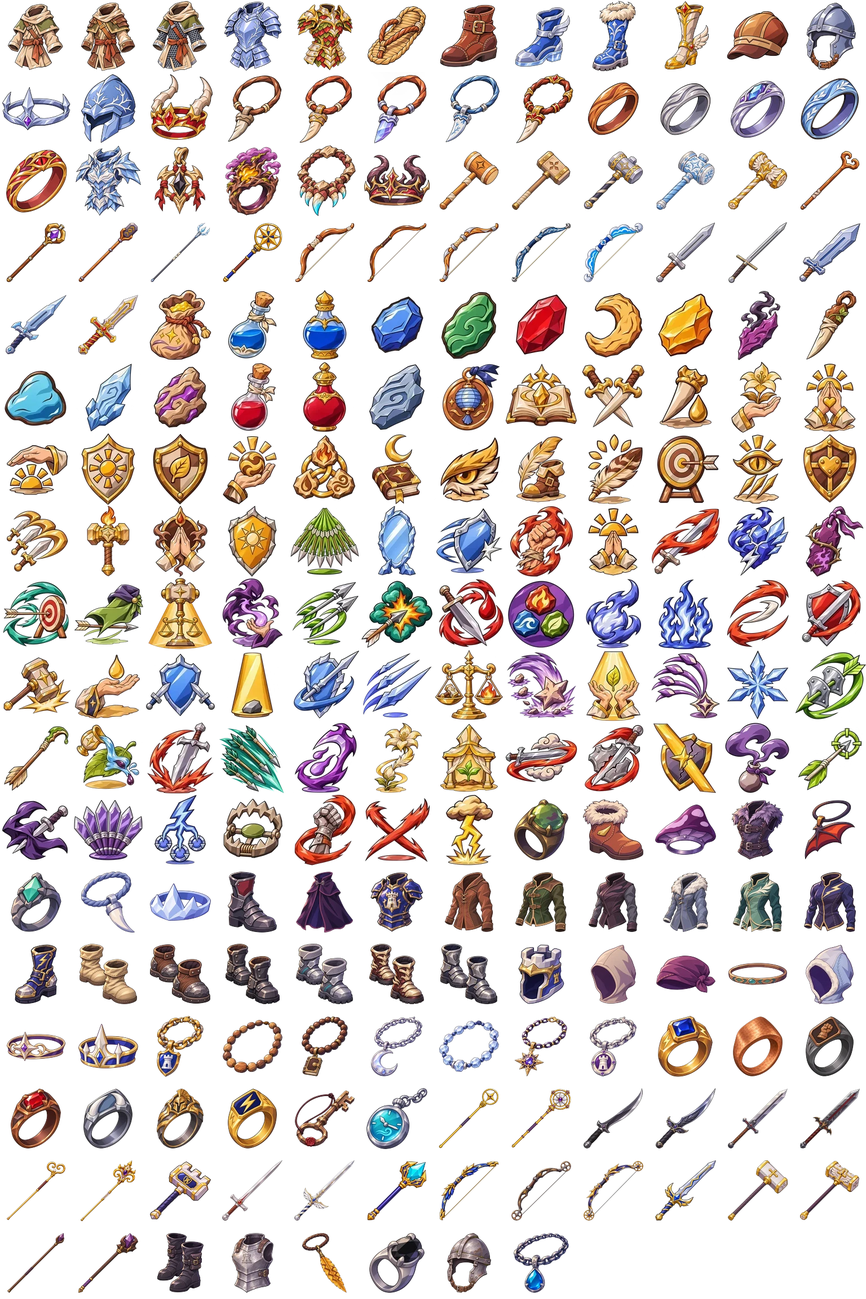
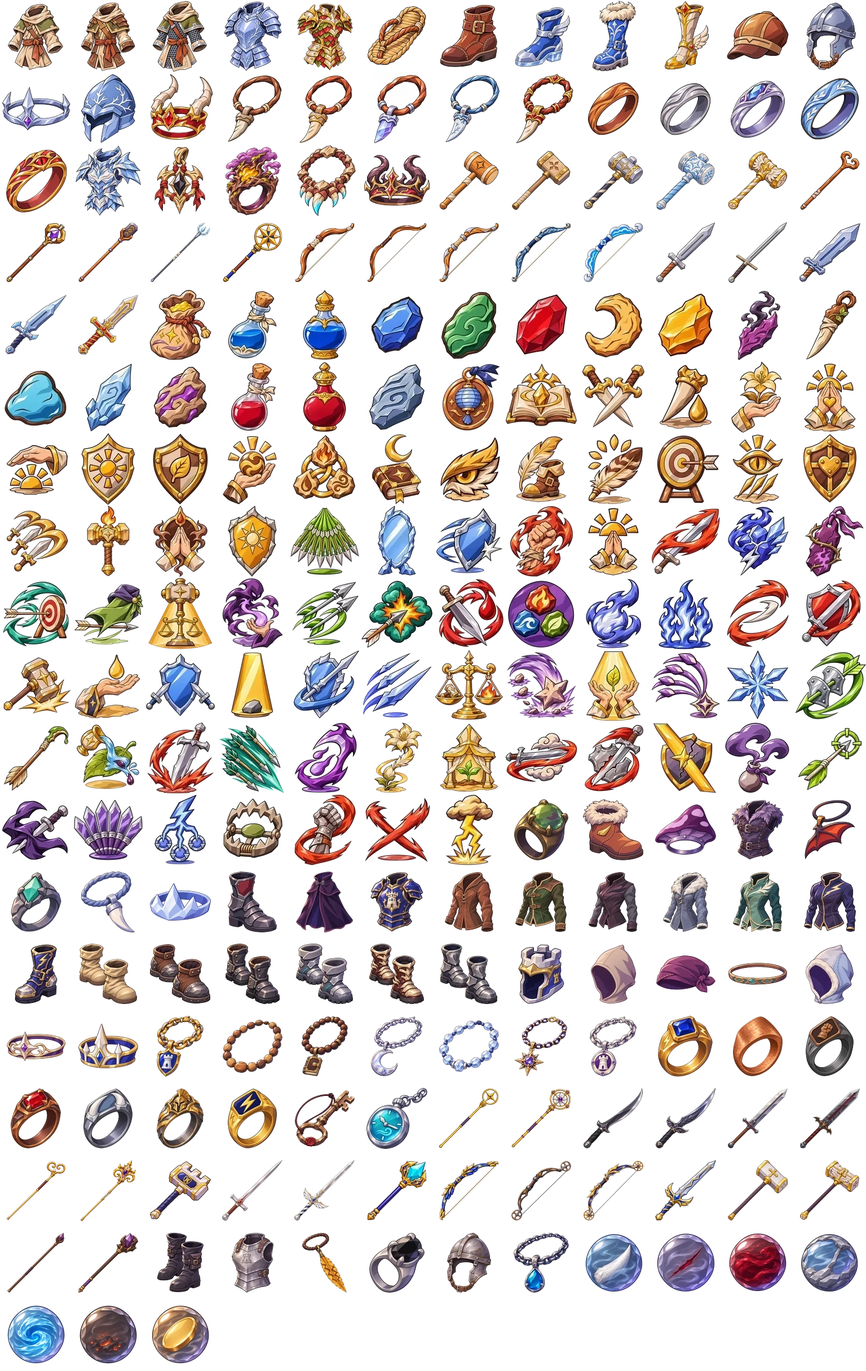
霧核圖示上線、新增淬鍊霧核（v11.8）；更新排行榜網址
Claude-Session: https://claude.ai/code/session_014oWtzFQQyW4AqkzicUGrLy

diff --git a/index.html b/index.html
@@ -335,8 +335,8 @@ body.pc #app{margin:0;flex:none;box-shadow:0 0 40px rgba(0,0,0,.45)}
 .duo .art{border:none;background:none}
 #pfx{position:absolute;inset:0;width:100%;height:100%;pointer-events:none;z-index:15}
 .art.shadowimg{transform:scaleX(-1)}.stage .spr.foe .art.shadowimg img,.art.shadowimg img{filter:brightness(.22) saturate(0) drop-shadow(0 0 10px #9a7aff)}
-.ico{position:relative;overflow:hidden}.ico i.at{position:absolute;inset:0;background:#fff url(art/atlas_ui.webp) no-repeat;background-size:1200% 1800%}.art i.sht{position:absolute;inset:0;background-repeat:no-repeat;background-size:400% 300%}.ico img.ii{position:absolute;inset:0;width:100%;height:100%;object-fit:contain;background:#fff}
-.cmd .btn .bi{width:26px;height:26px;object-fit:contain;vertical-align:middle;margin-right:4px}i.bi.at{display:inline-block;background:url(art/atlas_ui.webp) no-repeat;background-size:1200% 1800%}
+.ico{position:relative;overflow:hidden}.ico i.at{position:absolute;inset:0;background:#fff url(art/atlas_ui.webp) no-repeat;background-size:1200% 1900%}.art i.sht{position:absolute;inset:0;background-repeat:no-repeat;background-size:400% 300%}.ico img.ii{position:absolute;inset:0;width:100%;height:100%;object-fit:contain;background:#fff}
+.cmd .btn .bi{width:26px;height:26px;object-fit:contain;vertical-align:middle;margin-right:4px}i.bi.at{display:inline-block;background:url(art/atlas_ui.webp) no-repeat;background-size:1200% 1900%}
 @media (prefers-reduced-motion:reduce){*{animation:none!important;transition:none!important}}
 /* 隊友與多隻魔物 */
 .ally{position:absolute;left:0%;top:35%;width:23%;z-index:1;filter:drop-shadow(0 3px 2px rgba(0,0,0,.25))}.ally .art{border-radius:10px}
@@ -436,7 +436,7 @@ const PRE={};function preload(ks){ks.forEach(k=>{if(k&&!shKey(k)&&!(k in ATL)&&!
 window.reTry=(img,key)=>{const n=+(img.dataset.r||0);if(n>=3||!navigator.onLine&&n>=1)return false;img.dataset.r=n+1;setTimeout(()=>{if(img.isConnected)img.src='art/'+key+'.webp?r='+Date.now()},[600,1500,3500][n]);return true};
 const ASZ={r169:'1280×720',r34:'768×1024',r11:'768×768'};
 /* 插畫位：把圖檔放到 art/<key>.png 就會自動取代預留框 */
-const ATL={"icon_a_0":0,"icon_a_1":1,"icon_a_2":2,"icon_a_3":3,"icon_a_4":4,"icon_f_0":5,"icon_f_1":6,"icon_f_2":7,"icon_f_3":8,"icon_f_4":9,"icon_h_0":10,"icon_h_1":11,"icon_h_2":12,"icon_h_3":13,"icon_h_4":14,"icon_n_0":15,"icon_n_1":16,"icon_n_2":17,"icon_n_3":18,"icon_n_4":19,"icon_r_0":20,"icon_r_1":21,"icon_r_2":22,"icon_r_3":23,"icon_r_4":24,"icon_u_dragon":25,"icon_u_gob":26,"icon_u_tree":27,"icon_u_worm":28,"icon_u_zenos":29,"icon_w_cleric_0":30,"icon_w_cleric_1":31,"icon_w_cleric_2":32,"icon_w_cleric_3":33,"icon_w_cleric_4":34,"icon_w_mage_0":35,"icon_w_mage_1":36,"icon_w_mage_2":37,"icon_w_mage_3":38,"icon_w_mage_4":39,"icon_w_ranger_0":40,"icon_w_ranger_1":41,"icon_w_ranger_2":42,"icon_w_ranger_3":43,"icon_w_ranger_4":44,"icon_w_swordsman_0":45,"icon_w_swordsman_1":46,"icon_w_swordsman_2":47,"icon_w_swordsman_3":48,"icon_w_swordsman_4":49,"item_dust":50,"item_eth":51,"item_eth2":52,"item_gem_b":53,"item_gem_g":54,"item_gem_r":55,"item_gem_w":56,"item_gem_y":57,"item_m_dark":58,"item_m_fang":59,"item_m_gel":60,"item_m_ice":61,"item_m_ore":62,"item_pot":63,"item_pot2":64,"item_stone":65,"item_tok":66,"pass_am":67,"pass_as":68,"pass_bk":69,"pass_bp":70,"pass_cl1":71,"pass_cl2":72,"pass_cl3":73,"pass_kn":74,"pass_mg1":75,"pass_mg2":76,"pass_mg3":77,"pass_rg1":78,"pass_rg2":79,"pass_rg3":80,"pass_sn":81,"pass_sw1":82,"pass_sw2":83,"pass_sw3":84,"pass_tp":85,"pass_wl":86,"skill_aegis":87,"skill_arrowstorm":88,"skill_barrier":89,"skill_bash":90,"skill_berserk":91,"skill_bless":92,"skill_charge":93,"skill_collapse":94,"skill_curse":95,"skill_deadshot":96,"skill_dodge":97,"skill_doom":98,"skill_drain":99,"skill_dshot":100,"skill_explo":101,"skill_feast":102,"skill_field":103,"skill_fire":104,"skill_firestorm":105,"skill_flurry":106,"skill_guard":107,"skill_hammer":108,"skill_heal":109,"skill_hold":110,"skill_holy":111,"skill_holycharge":112,"skill_ice":113,"skill_judge":114,"skill_meteor":115,"skill_miracle":116,"skill_missiles":117,"skill_nova":118,"skill_pierce":119,"skill_pshot":120,"skill_purify":121,"skill_rage":122,"skill_rain":123,"skill_reap":124,"skill_revive":125,"skill_sanct":126,"skill_skyslash":127,"skill_slash":128,"skill_smite":129,"skill_smoke":130,"skill_snipe":131,"skill_stab":132,"skill_thousand":133,"skill_thunder":134,"skill_trap":135,"skill_warcry":136,"skill_whirl":137,"skill_wrath":138,"icon_x_bog":139,"icon_x_spark":140,"icon_x_soul":141,"icon_x_shade":142,"icon_x_lava":143,"icon_x_crystal":144,"icon_x_blizzard":145,"icon_x_storm":146,"icon_x_blood":147,"icon_x_void":148,"icon_a_5":149,"icon_ab_0":150,"icon_ab_1":151,"icon_ab_2":152,"icon_ab_3":153,"icon_ab_4":154,"icon_ab_5":155,"icon_f_5":156,"icon_fb_0":157,"icon_fb_1":158,"icon_fb_2":159,"icon_fb_3":160,"icon_fb_4":161,"icon_fb_5":162,"icon_h_5":163,"icon_hb_0":164,"icon_hb_1":165,"icon_hb_2":166,"icon_hb_3":167,"icon_hb_4":168,"icon_hb_5":169,"icon_n_5":170,"icon_nb_0":171,"icon_nb_1":172,"icon_nb_2":173,"icon_nb_3":174,"icon_nb_4":175,"icon_nb_5":176,"icon_r_5":177,"icon_rb_0":178,"icon_rb_1":179,"icon_rb_2":180,"icon_rb_3":181,"icon_rb_4":182,"icon_rb_5":183,"icon_u_archive":184,"icon_u_storm":185,"icon_w_archmage_4":186,"icon_w_archmage_5":187,"icon_w_assassin_4":188,"icon_w_assassin_5":189,"icon_w_berserker_4":190,"icon_w_berserker_5":191,"icon_w_bishop_4":192,"icon_w_bishop_5":193,"icon_w_cleric_5":194,"icon_w_knight_4":195,"icon_w_knight_5":196,"icon_w_mage_5":197,"icon_w_ranger_5":198,"icon_w_sniper_4":199,"icon_w_sniper_5":200,"icon_w_swordsman_5":201,"icon_w_templar_4":202,"icon_w_templar_5":203,"icon_w_warlock_4":204,"icon_w_warlock_5":205,"icon_x_bandit":206,"icon_x_deserter":207,"icon_x_hawk":208,"icon_x_ink":209,"icon_x_rust":210,"icon_x_tide":211},ATC=12,ATR=18;
+const ATL={"icon_a_0":0,"icon_a_1":1,"icon_a_2":2,"icon_a_3":3,"icon_a_4":4,"icon_f_0":5,"icon_f_1":6,"icon_f_2":7,"icon_f_3":8,"icon_f_4":9,"icon_h_0":10,"icon_h_1":11,"icon_h_2":12,"icon_h_3":13,"icon_h_4":14,"icon_n_0":15,"icon_n_1":16,"icon_n_2":17,"icon_n_3":18,"icon_n_4":19,"icon_r_0":20,"icon_r_1":21,"icon_r_2":22,"icon_r_3":23,"icon_r_4":24,"icon_u_dragon":25,"icon_u_gob":26,"icon_u_tree":27,"icon_u_worm":28,"icon_u_zenos":29,"icon_w_cleric_0":30,"icon_w_cleric_1":31,"icon_w_cleric_2":32,"icon_w_cleric_3":33,"icon_w_cleric_4":34,"icon_w_mage_0":35,"icon_w_mage_1":36,"icon_w_mage_2":37,"icon_w_mage_3":38,"icon_w_mage_4":39,"icon_w_ranger_0":40,"icon_w_ranger_1":41,"icon_w_ranger_2":42,"icon_w_ranger_3":43,"icon_w_ranger_4":44,"icon_w_swordsman_0":45,"icon_w_swordsman_1":46,"icon_w_swordsman_2":47,"icon_w_swordsman_3":48,"icon_w_swordsman_4":49,"item_dust":50,"item_eth":51,"item_eth2":52,"item_gem_b":53,"item_gem_g":54,"item_gem_r":55,"item_gem_w":56,"item_gem_y":57,"item_m_dark":58,"item_m_fang":59,"item_m_gel":60,"item_m_ice":61,"item_m_ore":62,"item_pot":63,"item_pot2":64,"item_stone":65,"item_tok":66,"pass_am":67,"pass_as":68,"pass_bk":69,"pass_bp":70,"pass_cl1":71,"pass_cl2":72,"pass_cl3":73,"pass_kn":74,"pass_mg1":75,"pass_mg2":76,"pass_mg3":77,"pass_rg1":78,"pass_rg2":79,"pass_rg3":80,"pass_sn":81,"pass_sw1":82,"pass_sw2":83,"pass_sw3":84,"pass_tp":85,"pass_wl":86,"skill_aegis":87,"skill_arrowstorm":88,"skill_barrier":89,"skill_bash":90,"skill_berserk":91,"skill_bless":92,"skill_charge":93,"skill_collapse":94,"skill_curse":95,"skill_deadshot":96,"skill_dodge":97,"skill_doom":98,"skill_drain":99,"skill_dshot":100,"skill_explo":101,"skill_feast":102,"skill_field":103,"skill_fire":104,"skill_firestorm":105,"skill_flurry":106,"skill_guard":107,"skill_hammer":108,"skill_heal":109,"skill_hold":110,"skill_holy":111,"skill_holycharge":112,"skill_ice":113,"skill_judge":114,"skill_meteor":115,"skill_miracle":116,"skill_missiles":117,"skill_nova":118,"skill_pierce":119,"skill_pshot":120,"skill_purify":121,"skill_rage":122,"skill_rain":123,"skill_reap":124,"skill_revive":125,"skill_sanct":126,"skill_skyslash":127,"skill_slash":128,"skill_smite":129,"skill_smoke":130,"skill_snipe":131,"skill_stab":132,"skill_thousand":133,"skill_thunder":134,"skill_trap":135,"skill_warcry":136,"skill_whirl":137,"skill_wrath":138,"icon_x_bog":139,"icon_x_spark":140,"icon_x_soul":141,"icon_x_shade":142,"icon_x_lava":143,"icon_x_crystal":144,"icon_x_blizzard":145,"icon_x_storm":146,"icon_x_blood":147,"icon_x_void":148,"icon_a_5":149,"icon_ab_0":150,"icon_ab_1":151,"icon_ab_2":152,"icon_ab_3":153,"icon_ab_4":154,"icon_ab_5":155,"icon_f_5":156,"icon_fb_0":157,"icon_fb_1":158,"icon_fb_2":159,"icon_fb_3":160,"icon_fb_4":161,"icon_fb_5":162,"icon_h_5":163,"icon_hb_0":164,"icon_hb_1":165,"icon_hb_2":166,"icon_hb_3":167,"icon_hb_4":168,"icon_hb_5":169,"icon_n_5":170,"icon_nb_0":171,"icon_nb_1":172,"icon_nb_2":173,"icon_nb_3":174,"icon_nb_4":175,"icon_nb_5":176,"icon_r_5":177,"icon_rb_0":178,"icon_rb_1":179,"icon_rb_2":180,"icon_rb_3":181,"icon_rb_4":182,"icon_rb_5":183,"icon_u_archive":184,"icon_u_storm":185,"icon_w_archmage_4":186,"icon_w_archmage_5":187,"icon_w_assassin_4":188,"icon_w_assassin_5":189,"icon_w_berserker_4":190,"icon_w_berserker_5":191,"icon_w_bishop_4":192,"icon_w_bishop_5":193,"icon_w_cleric_5":194,"icon_w_knight_4":195,"icon_w_knight_5":196,"icon_w_mage_5":197,"icon_w_ranger_5":198,"icon_w_sniper_4":199,"icon_w_sniper_5":200,"icon_w_swordsman_5":201,"icon_w_templar_4":202,"icon_w_templar_5":203,"icon_w_warlock_4":204,"icon_w_warlock_5":205,"icon_x_bandit":206,"icon_x_deserter":207,"icon_x_hawk":208,"icon_x_ink":209,"icon_x_rust":210,"icon_x_tide":211,"icon_core_fang":212,"icon_core_exec":213,"icon_core_blood":214,"icon_core_wall":215,"icon_core_flow":216,"icon_core_ember":217,"icon_core_greed":218},ATC=12,ATR=19;
 const SHO=['','mage','ranger','cleric','knight','berserker','archmage','warlock','sniper','assassin','bishop','templar'];
 const shKey=k=>{const m=k&&k.match(/^story_ch(\d)_(intro|mid|outro)_([mf])(?:_(\w+))?$/);if(!m)return null;const i=SHO.indexOf(m[4]||'');return i<0?null:{f:`sheet_ch${m[1]}_${m[2]}_${m[3]}`,i}};
 const shPos=i=>`background-position:${(i%4)/3*100}% ${Math.floor(i/4)/2*100}%`;
@@ -1848,11 +1848,13 @@ const MCORE={fang:{i:'⚡',n:'獵牙霧核',d:'敵人 HP 高於 70% 時，你的
   wall:{i:'🛡',n:'磐石霧核',d:'每場戰鬥開始，獲得最大 HP 20% 的護盾',tip:'先機流、守護流'},
   flow:{i:'💧',n:'湧泉霧核',d:'每回合結束回復 6% MP',tip:'技能連發'},
   ember:{i:'🔥',n:'餘燼霧核',d:'每場戰鬥開始，敵人灼燒 3 回合、虛弱 2 回合',tip:'烈焰流、剋制會再生的對手'},
-  greed:{i:'💰',n:'貪婪霧核',d:'金幣 +60%、裝備掉落提升；但敵人攻擊 +15%',tip:'有把握再拿'}};
-const coreM=()=>{const c=RUN&&RUN.core;if(!c||!B)return 1;return c==='fang'&&B.hp>B.max*.7?1.3:c==='exec'&&B.hp<B.max*.35?1.4:c==='blood'&&S.hp<stats().HP*.5?1.35:1};
-const coreRoll=()=>{const ks=Object.keys(MCORE),o=[];while(o.length<3){const k=pick(ks);if(!o.includes(k))o.push(k)}return o};
-function coreHtml(v){if(RUN.core)return `<p class="sub" style="color:var(--exp)">${MCORE[RUN.core].i} 你帶走了【${MCORE[RUN.core].n}】：${MCORE[RUN.core].d}（本趟冒險生效）</p>`;
-  return `<div class="lbl">強敵倒下後留下三顆霧核（只能帶走一顆，本趟冒險生效）</div><div class="list">${v.core.filter(k=>MCORE[k]).map(k=>`<button class="btn" style="text-align:left" data-a="core" data-v="${k}"><b>${MCORE[k].i} ${MCORE[k].n}</b><br><span class="sub">${MCORE[k].d}</span><br><span class="sub" style="opacity:.7">適合：${MCORE[k].tip}</span></button>`).join('')}</div>`}
+  greed:{i:'💰',n:'貪婪霧核',d:'金幣 +60%、裝備掉落提升；但敵人攻擊 +15%',tip:'有把握再拿'},
+  temper:{i:'⚒',n:'淬鍊霧核',d:'下一場戰鬥敵人攻擊 +25%；撐過之後，你的傷害 +25%，且每場開場回復 15% HP',tip:'先苦後甘，後面還有路時'}};
+const coreIc=(k,z)=>('icon_core_'+k) in ATL?`<i class="bi at" style="width:${z||22}px;height:${z||22}px;margin-right:4px;vertical-align:middle;background-position:${(ATL['icon_core_'+k]%ATC)/(ATC-1)*100}% ${Math.floor(ATL['icon_core_'+k]/ATC)/(ATR-1)*100}%"></i>`:MCORE[k].i+' ';
+const coreM=()=>{const c=RUN&&RUN.core;if(!c||!B)return 1;return c==='fang'&&B.hp>B.max*.7?1.3:c==='exec'&&B.hp<B.max*.35?1.4:c==='blood'&&S.hp<stats().HP*.5?1.35:c==='temper'&&RUN.coreN>=1?1.25:1};
+const coreRoll=()=>{const ks=Object.keys(MCORE).filter(k=>k!=='temper'||RUN.step<RUN.nodes.length-3),o=[];while(o.length<3){const k=pick(ks);if(!o.includes(k))o.push(k)}return o};
+function coreHtml(v){if(RUN.core)return `<p class="sub" style="color:var(--exp)">${coreIc(RUN.core)}你帶走了【${MCORE[RUN.core].n}】：${MCORE[RUN.core].d}（本趟冒險生效）</p>`;
+  return `<div class="lbl">強敵倒下後留下三顆霧核（只能帶走一顆，本趟冒險生效）</div><div class="list">${v.core.filter(k=>MCORE[k]).map(k=>`<button class="btn" style="text-align:left;white-space:normal;line-height:1.5" data-a="core" data-v="${k}"><b>${coreIc(k,34)}${MCORE[k].n}</b><br><span class="sub">${MCORE[k].d}</span><br><span class="sub" style="opacity:.7">適合：${MCORE[k].tip}</span></button>`).join('')}</div>`}
 function corePick(k){const v=RUN&&RUN.view;if(!v||!v.core||RUN.core||!MCORE[k]||!v.core.includes(k))return;RUN.core=k;try{SFX.holy(0)}catch(e){}toast(`${MCORE[k].i} 取得【${MCORE[k].n}】`);save();render()}
 function bossBoxHtml(v){if(v.box===2)return v.boxR||'';return `<div class="lbl">首領的寶物堆（只能帶走一箱）</div><div class="list">${Object.keys(BBOX).map(k=>`<button class="btn" style="text-align:left" data-a="bossBox" data-v="${k}"><b>${BBOX[k].n}</b><br><span class="sub">${BBOX[k].d}</span></button>`).join('')}</div>`}
 function bossBox(k){const v=RUN&&RUN.view;if(!v||v.box!==1||!BBOX[k])return;const L=v.boxL||S.lv,t=RUN.area;let x='';DROPS=[];
@@ -1888,13 +1890,13 @@ function vRun(){if(RUN.tower)return vTower();const a=AREAS[RUN.area],v=RUN.view,
     else body+=(v.r?`<div class="die ${v.r.ok?'ok':'ng'}">${v.r.d}</div><p class="calc">d20 <b>${v.r.d}</b> + ${ATTR[v.r.a]}修正 <b>${v.r.mod}</b> = <b>${v.r.d+v.r.mod}</b>　／　DC ${v.r.dc}<br><b style="color:var(--${v.r.ok?'exp':'hp'})">${v.r.d===20?'大成功！':v.r.d===1?'大失敗…':v.r.ok?'檢定成功':'檢定失敗'}</b></p>`:'')+
       `<p>${v.text}</p>${v.gain.length?`<div class="chips">${v.gain.map(g=>`<span class="chip">${g}</span>`).join('')}</div>`:''}${v.amb?'<button class="btn pri big" data-a="evFight">迎戰！</button>':`<button class="btn pri big" data-a="${last?'finish':'runNext'}">${last?'完成冒險':'繼續前進'}</button>`}`;
     body+='</div>'}
-  return `<div class="row"><h2 class="grow">${a.n}</h2><span class="sub">已獲得 ${RUN.loot.gold} G・${RUN.loot.exp} EXP</span></div>${pips}${RUN.core&&MCORE[RUN.core]?`<p class="sub" style="margin:2px 0 6px;color:var(--exp)">${MCORE[RUN.core].i} ${MCORE[RUN.core].n}：${MCORE[RUN.core].d}</p>`:''}${body}`}
+  return `<div class="row"><h2 class="grow">${a.n}</h2><span class="sub">已獲得 ${RUN.loot.gold} G・${RUN.loot.exp} EXP</span></div>${pips}${RUN.core&&MCORE[RUN.core]?`<p class="sub" style="margin:2px 0 6px;color:var(--exp)">${coreIc(RUN.core)}${MCORE[RUN.core].n}：${MCORE[RUN.core].d}${RUN.core==='temper'?(RUN.coreN>=1?'（已淬鍊完成）':'（淬鍊中）'):''}</p>`:''}${body}`}
 const hpCls=(v,m)=>v/m>.5?'g':v/m>.2?'y':'r';
 function bbar(v,m,prev,c){const p=Math.max(0,Math.min(100,v/m*100));return `<div class="bbar ${c?'s':''}"><i class="${c||hpCls(v,m)}" style="width:${prev==null?p:prev}%" data-w="${p}"></i></div>`}
 function vBattle(){const s=stats(),fx=B.fx||{},intro=B.intro,a=AREAS[RUN.area];B.fx=null;B.intro=false;const AL=B.ally,aD=B.allyD,aH=B.allyH,aHit=B.allyHit;B.allyD=B.allyH=B.allyHit=0;
   const fp=B.fhp,pp=B.php;B.fhp=B.hp/B.max*100;B.php=S.hp/s.HP*100;
   const C=B.cls,kl=B.hp>0&&!(B.adds||[]).some(f=>f.hp>0)&&(()=>{try{return myPd(null,s)>=B.hp?'普攻':battleSkills().some(k=>SK[k].dmg&&S.mp>=mpCost(k)&&myPd(k,s)>=B.hp)?'技能':''}catch(e){return ''}})(),st=[kl?`<span class="chip" style="color:#fff;background:#b8452a" title="這一擊大概就能收掉，不必再防守">🗡 ${kl}可斬殺</span>`:'',...B.aff.map(x=>`<span class="chip" style="color:#fff;background:#7a2a4a">${AFF[x].n}</span>`),...B.fb.map(b=>`<span class="chip">${b.n} ${b.t}</span>`),B.fshield>0?`<span class="chip">盾 ${B.fshield}</span>`:'',C.brk?`<span class="chip" style="color:var(--hp)">破綻 ${C.brk}</span>`:'',B.tough||B.cdr>.06?`<span class="chip" title="降低你的爆擊率與爆擊傷害">韌性 ${B.tough||0}・爆抗 ${Math.round((B.cdr||0)*100)}%</span>`:'',C.marks.length?`<span class="chip" style="color:var(--r3)">印記 ${C.marks.join('')}</span>`:'',...Object.keys(B.st).filter(k=>B.st[k]>0).map(k=>`<span class="chip">${FOE[k]} ${B.st[k]}</span>`)].join('');
-  const me=[RUN&&RUN.core&&MCORE[RUN.core]&&!RUN.tower?`<span class="chip" style="color:var(--exp)" title="${MCORE[RUN.core].d}">${MCORE[RUN.core].i} ${MCORE[RUN.core].n.replace('霧核','')}${coreM()>1?' ▲':''}</span>`:'',C.focus?`<span class="chip" style="color:var(--exp)">專注 ${C.focus}</span>`:'',S.cls==='cleric'?`<span class="chip" style="color:var(--r4)">信仰 ${C.faith}</span>`:'',B.counter?'<span class="chip">招架反擊</span>':'',B.endure?'<span class="chip">鬥氣解放</span>':'',...B.buffs.map(b=>`<span class="chip">${b.n} ${b.t}</span>`),B.shield>0?`<span class="chip">護盾 ${B.shield}</span>`:'',...['poison','burn','bleed','weak','stun'].filter(h=>B.pst[h]>0).map(h=>`<span class="chip" style="color:var(--hp)">${HST[h]} ${B.pst[h]}</span>`),B.pst.regen>0?`<span class="chip">再生 ${B.pst.regen}</span>`:'',B.guard?'<span class="chip">防禦中</span>':''].join('');
+  const me=[RUN&&RUN.core&&MCORE[RUN.core]&&!RUN.tower?`<span class="chip" style="color:var(--exp)" title="${MCORE[RUN.core].d}">${coreIc(RUN.core,16)}${MCORE[RUN.core].n.replace('霧核','')}${coreM()>1?' ▲':''}</span>`:'',C.focus?`<span class="chip" style="color:var(--exp)">專注 ${C.focus}</span>`:'',S.cls==='cleric'?`<span class="chip" style="color:var(--r4)">信仰 ${C.faith}</span>`:'',B.counter?'<span class="chip">招架反擊</span>':'',B.endure?'<span class="chip">鬥氣解放</span>':'',...B.buffs.map(b=>`<span class="chip">${b.n} ${b.t}</span>`),B.shield>0?`<span class="chip">護盾 ${B.shield}</span>`:'',...['poison','burn','bleed','weak','stun'].filter(h=>B.pst[h]>0).map(h=>`<span class="chip" style="color:var(--hp)">${HST[h]} ${B.pst[h]}</span>`),B.pst.regen>0?`<span class="chip">再生 ${B.pst.regen}</span>`:'',B.guard?'<span class="chip">防禦中</span>':''].join('');
   
   if(fx.by)B.pfx=fx;const mine=fx.by==='me',theirs=fx.by==='foe',atk=mine&&fx.d!=null;const sk=fx.skill?SKA[fx.skill]:null,fk=theirs&&fx.fsk?(SKM[fx.fsk]||{fx:'roar',c:'#ff4a4a'}):null;B.delayBar=!!(sk||fk);
   const foeC=[intro?'in-r':'',atk&&fx.d>0?(sk?'hitl':'hit'):'',theirs&&!fx.stun?(fk?(MELEE[fk.fx]?'charge lunge2':'charge'):'lunge-foe'):'',B.hp<=0?(sk?'faintl':'faint'):'',B.mut?'mut':'',B.nm?'nm':'',B.treasure?'gold':'',B.wander?'wander':'',...Object.keys(B.st||{}).filter(k=>B.st[k]>0).map(k=>'s-'+k),B.frozen&&B.st.stun>0?'s-freeze':'',B.chg?'chg':''].join(' ');
@@ -2579,6 +2581,7 @@ function loadCode(code){try{const [v,b,c]=code.trim().split('.');if(v!=='AO1')th
 
 /* ============ 公告與限時活動 ============ */
 const NEWS=[
+  {v:'11.8',d:'2026-11-23',t:'霧核有了圖示，新增「淬鍊霧核」',b:'七顆霧核換上正式圖示，選擇畫面與戰鬥狀態列都看得到。新增第八顆「淬鍊霧核」：拿了之後下一場戰鬥敵人攻擊 +25%，撐過去以後這趟冒險你的傷害 +25%，而且每場開場回復 15% HP——先苦後甘，離首領還有一段路時才會出現。'},
   {v:'11.7',d:'2026-11-23',t:'雲端帳號',b:'設定新增「雲端帳號」：註冊帳號和密碼後，手機和電腦登入同一個帳號就會共用同一份進度並自動同步。原本的轉移碼和存檔碼也還能用。'},
   {v:'11.6',d:'2026-11-22',t:'霧核：中段強敵的戰利品',b:'打倒冒險中段的強敵後，牠會留下三顆「霧核」讓你帶走一顆，效果持續到這趟冒險結束：獵牙（對滿血敵人更痛）、斷罪（收尾更狠）、沸血（殘血反擊）、磐石（開場護盾）、湧泉（每回合回魔）、餘燼（敵人開場灼燒虛弱）、貪婪（金幣與掉寶變多，但敵人更兇）。配合自己的流派挑，後面兩段路和首領的打法會不一樣。'},
   {v:'11.5',d:'2026-11-22',t:'冒險路線加長',b:'每次冒險從 6 段加長為 8 段：中段固定出現一隻強敵，打完後的岔路一定有營地可以休息，再走兩段才到首領。獎勵也跟著變多。'},
@@ -2745,6 +2748,7 @@ function startBattle(id,kind,nAdds){const F=mkFoe(id,kind),m=F.m,bs=F.kind==='bo
     if(c==='wall'){const sh=Math.round(s0.HP*.2);B.shield=(B.shield||0)+sh;B.log.push(`${M.i}【${M.n}】張開 ${sh} 點護盾`)}
     else if(c==='ember'){B.st.burn=Math.max(B.st.burn||0,3);B.st.weak=Math.max(B.st.weak||0,2);B.log.push(`${M.i}【${M.n}】${B.name} 一現身就被餘燼纏上（灼燒、虛弱）`)}
     else if(c==='greed'){B.atk=Math.round(B.atk*1.15);B.mag=Math.round(B.mag*1.15);B.gmul=(B.gmul||1)*1.6;B.log.push(`${M.i}【${M.n}】金幣的氣味讓 ${B.name} 更兇了（攻擊 +15%、金幣 +60%）`)}
+    else if(c==='temper'){if(RUN.coreN>=1){const hv=Math.min(s0.HP-S.hp,Math.round(s0.HP*.15));if(hv>0)S.hp+=hv;B.log.push(`${M.i}【${M.n}】淬鍊完成：傷害 +25%${hv>0?`、回復 ${hv} HP`:''}`)}else{B.atk=Math.round(B.atk*1.25);B.mag=Math.round(B.mag*1.25);B.log.push(`${M.i}【${M.n}】霧核還在燒：這一場 ${B.name} 攻擊 +25%，撐過去就換你變強`)}}
     else B.log.push(`${M.i}【${M.n}】${M.d}`)}
   if(B.auto)setTimeout(autoAct,AS(700))}
 const rmax=b=>b+(stats().RESMAX||0);
@@ -2941,7 +2945,7 @@ function spoil(){const m=B.m,L=B.L,bs=B.kind==='boss',el=B.kind==='elite',T=B.to
 function win(){if(!B||B.hp>0)return;try{const ds=B.ds||{},tot=Object.values(ds).reduce((a,b)=>a+b,0);if(tot>0&&(B.kind==='boss'||B.kind==='elite'||Object.keys(ds).length>=3)){const top=Object.entries(ds).sort((a,b)=>b[1]-a[1]).slice(0,5).map(([k,v])=>`${k} ${Math.round(v/tot*100)}%`).join('・');B.log.push(`📊 戰報（${B.turn} 回合）：${top}`);B.rep=top}}catch(e){}spoil();if(B.kind==='boss')bondGain(.5,'並肩打倒首領');try{talk('win')}catch(e){}{const s=stats();if(s.REAP&&S.hp>0){const rk=s.KW.reap||0,h=Math.round(s.HP*s.REAP/100*(rk>=2?2:1)),m=Math.round(s.MP*s.REAP/100*(rk>=2?2:1));if(rk>=3)S.reapFree=1;S.hp=Math.min(s.HP,S.hp+h);S.mp=Math.min(s.MP,S.mp+m);B.rp=`【收割】回復 ${h} HP、${m} MP`;B.log.push(B.rp)}}
   const nx=(B.adds||[]).findIndex(f=>f.hp>0);
   if(nx>=0){const dn=B.name;swapFoe(nx);B.adds=B.adds.filter(f=>f.hp>0);B.log.push(`${dn} 倒下了！${B.name} 衝了上來`);B.fx=null;B.busy=true;B.intro=true;render();setTimeout(foeTurn,900);return}
-  SFX.win();const T=B.tot,bs=B.kind==='boss',bid=B.id;
+  SFX.win();const T=B.tot,bs=B.kind==='boss',bid=B.id;if(RUN.core==='temper'&&!RUN.tower&&!RUN.trial)RUN.coreN=(RUN.coreN||0)+1;
   RUN.loot.gold+=T.gold;RUN.loot.exp+=T.exp;RUN.loot.items.push(...T.got);
   if(RUN.trial){S.trial=1;for(const k in TRIAL.items)addItem(k,-TRIAL.items[k]);S.gold=Math.max(0,S.gold-TRIAL.gold)}
   const ally=B.ally&&B.ally.hp>0?B.ally.n:null;
@@ -3713,7 +3717,7 @@ function faTick(){faDraw();if(!FA||!S||FA.busy)return;if(FA.hold&&Date.now()-FA.
   if(B){if(!B.auto){B.auto=AUTO=true;render();setTimeout(autoAct,200)}return}
   if(RUN){if(TAB!=='adv'){TAB='adv';render();return}
     if(RUN.view&&RUN.view.type==='gate'){const L=MOBS[AREAS[RUN.area].boss].lv+(RUN.nm?10:0),st=stats();if((!S.cleared[RUN.area]&&S.lv<L-1)||(S.hp<st.HP*.35&&!S.items.pot&&!S.items.pot2&&!S.items.pot3)){toast('全自動：首領太強，先撤退練功');faClick('#main [data-a="retreat"]')}else{if(!RUN.prep){if(S.hp<st.HP*.6)doPrep('camp');else if(S.gold>=prepCost(L)*3)doPrep('scout');else if((S.items.pot||0)>2)doPrep('trap')}faClick('#main [data-a="bossGo"]')}return}
-    faClick('#main [data-a="bossBox"]',1)||faClick('#main [data-a="core"]:not([data-v="greed"])',1)||(document.querySelector('#main [data-a="pickFork"]')&&(faSmartFork()||faDice('#main [data-a="pickFork"]','岔路')))||(document.querySelector('#main [data-a="evPick"]')&&faDice('#main [data-a="evPick"]','事件抉擇'))||faClick('#main [data-a="evFight"]')||faClick('#main [data-a="bless"]',1)||faClick('#main [data-a="runNext"]')||faClick('#main [data-a="towerNext"]')||faClick('#main [data-a="finish"]');return}
+    faClick('#main [data-a="bossBox"]',1)||faClick('#main [data-a="core"]:not([data-v="greed"]):not([data-v="temper"])',1)||(document.querySelector('#main [data-a="pickFork"]')&&(faSmartFork()||faDice('#main [data-a="pickFork"]','岔路')))||(document.querySelector('#main [data-a="evPick"]')&&faDice('#main [data-a="evPick"]','事件抉擇'))||faClick('#main [data-a="evFight"]')||faClick('#main [data-a="bless"]',1)||faClick('#main [data-a="runNext"]')||faClick('#main [data-a="towerNext"]')||faClick('#main [data-a="finish"]');return}
   /* 回城：休息後重新出發同一地區 */
   if(FA.tower){faStop('高塔挑戰結束');return}
   if(!FA.towned){FA.towned=1;faTown();return}

diff --git a/sw.js b/sw.js
@@ -1,4 +1,4 @@
-const C='ao-art-v30';
+const C='ao-art-v31';
 self.addEventListener('install',e=>self.skipWaiting());
 self.addEventListener('activate',e=>e.waitUntil(caches.keys().then(ks=>Promise.all(ks.filter(k=>k.startsWith('ao-art')&&k!==C).map(k=>caches.delete(k)))).then(()=>self.clients.claim())));
 const get=(req,n)=>fetch(req).catch(err=>n>0?new Promise(r=>setTimeout(r,800)).then(()=>get(req,n-1)):Promise.reject(err));

diff --git a/DEV_NOTES.md b/DEV_NOTES.md
@@ -152,9 +152,13 @@
 - Lv12 法師 MAG（121）略低於神官（128）：同裝測試，可觀察是否要補法師。
 
 ## 已完成（自動排程）
+- v11.8（2026-11-22）：霧核 7 張圖示審過上線（切面水晶球、風格一致），進 `art/atlas_ui.webp` 第 19 列（`ATR` 18→19、CSS `background-size:1200% 1900%`，索引 212～218），`coreIc(k,size)` 有圖用圖、沒圖退回 emoji；sw.js v31。新增第 8 顆**淬鍊霧核** `temper`：拿到後下一場戰鬥敵攻 +25%（`startBattle`），打贏後 `RUN.coreN`≥1 → `coreM()` 傷害 ×1.25、每場開場回 15% HP；只在 `RUN.step<nodes.length-3` 時進三選一（太靠近首領不出）；全自動不拿。修霧核按鈕長說明文字被切掉（`white-space:normal`）。`rank.json` 換成新通道網址。
+  - 設計來源：參考動作 Roguelike「先吃一段詛咒、撐過才換到強力祝福」的優點（短痛換長利、要看剩餘路程判斷），做成本作的淬鍊霧核；名稱、數值、文字皆自創。
+  - 美術：已派總指揮畫 `icon_core_temper.png`（同款水晶球，球內燒紅鐵胚＋鐵砧）。到位後放 atlas 索引 219，ATL 加 `icon_core_temper`。
+  - 測試：390×844／1920×1080，劍士、法師 Lv1、遊俠、祭司 Lv6 全自動各 200 秒，0 pageerror、0 缺圖、無卡住。玩家意見 1 則（舊，狂戰士立繪，11-20 已換新服裝），無錯誤回報。
 - v11.6（2026-11-22）：**霧核**（`MCORE`、`coreRoll`、`coreHtml`、`corePick`、`ACT.core`、`RUN.core`、`RUN.view.core`）。打贏中段強敵（`RUN.nodes[step]==='elite'`、step≥3 且不是最後一段）後三選一，本趟冒險生效：獵牙（敵 HP>70% 傷害 +30%）、斷罪（敵 HP<35% +40%）、沸血（自己 HP<50% +35%）—三者走 `coreM()`，已乘進 `hitFoe` 與 `myPd`；磐石（開場 20% HP 護盾）、餘燼（敵人開場灼燒 3、虛弱 2）、貪婪（敵攻 +15%、金幣 ×1.6、掉裝率同幸運祝福）在 `startBattle`；湧泉（回合結束回 6% MP）在 `foeTurn` 回合遞增處。高塔與試煉不出現。全自動隨機選但不拿貪婪。`RUN` 不進存檔，舊存檔不受影響。
   - 設計來源：參考 Roguelike 構築遊戲「一趟冒險內生效、會改規則的被動戰利品」的優點（每趟打法不同、和既有流派互相加成），做成本作的霧核；名稱、效果、文字皆自創。後續可加：更多霧核、惡夢限定霧核、霧核與流派共鳴的連動。
-  - 美術：已派總指揮畫 7 張 `icon_core_<fang|exec|blood|wall|flow|ember|greed>.png`（128 圖示）。圖到位後進 atlas，把 `MCORE[k].i` 的 emoji 換成圖示。
+  - 美術：7 張霧核圖示已於 v11.8 上線。
   - 本輪 azure-oath 資料夾未連線到排程 session（connectedFolders 空，已在電腦上跳出授權視窗等待按允許），無法審圖與讀規格書／rank_url.txt。雲端也連不到 trycloudflare，玩家意見本輪未讀到。
   - 備註：`maint.json` 目前是 `on:false`（已開服），排程維持現狀沒有動。
 - v10.1：戰利品卡片比較（`dropUp`：同部位 gearPower 比身上高就標「▲ 比身上的強 X%」＋「換上」按鈕 `ACT.dropEq`，換上後會改寫 `RUN.view.drop`／`boxR` 成「已換上」）。新增 `pot3` 特級治療藥水（800 HP、240 G，`S.main.ch>=4` 道具店上架）；`autoAct` 依缺血量挑藥、全自動回城整備第五章起補 2 瓶 pot3（≥600 pot3、≥200 pot2、否則 pot）。玩家意見 0 則。
